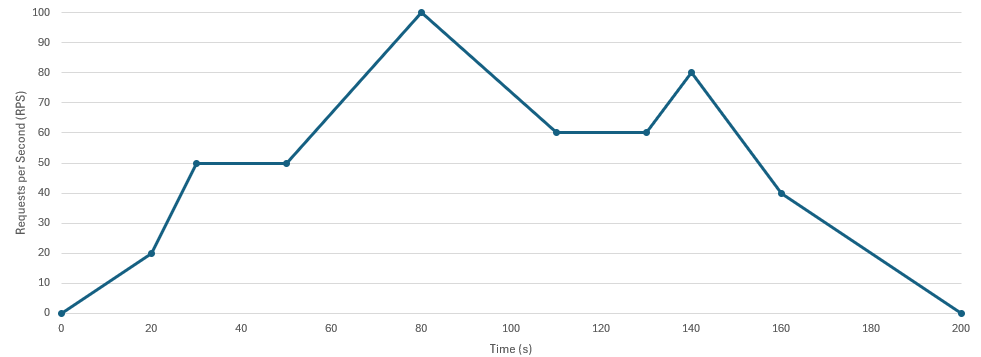
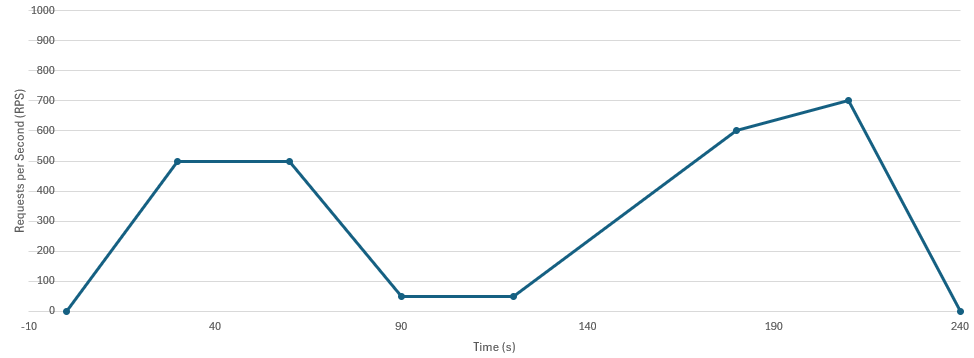
feat(curve_loadtest): finished curve loadtest

diff --git a/loadtest/curve/curve_tester/curver_tester.go b/loadtest/curve/curve_tester/curver_tester.go
@@ -14,13 +14,18 @@ type CurveTester struct {
 	logHeaderPrinted bool
 	startTime        time.Time
 	isRunning        bool
+	rpsChan          chan int
+	currentRPS       int
+	targetRPS        int
 }
 
 func NewCurveTester(config LoadtestConfig, client net.Client) *CurveTester {
 	return &CurveTester{
-		config:    config,
-		client:    client,
-		isRunning: false,
+		config:     config,
+		client:     client,
+		isRunning:  false,
+		currentRPS: 0,
+		targetRPS:  0,
 	}
 }
 
@@ -30,27 +35,28 @@ func (tester *CurveTester) Run() {
 		return
 	}
 
-	fmt.Println("Starting curve load test")
-
-	tester.startTime = time.Now()
-
 	requestHandler := NewRequestHandler(tester.config.Target, tester.config.Paths, tester.client)
 
 	requestWg := sync.WaitGroup{}
 	stopRequestHandlerChan := make(chan struct{})
-	rpsChan := make(chan int)
+	tester.rpsChan = make(chan int, tester.maxTargetRPSChange())
 
-	go requestHandler.Run(stopRequestHandlerChan, rpsChan, &requestWg)
+	fmt.Println("Starting curve load test")
 
-	currentRPS := 0
+	tester.startTime = time.Now()
+
+	go requestHandler.Run(stopRequestHandlerChan, tester.rpsChan, &requestWg)
+	go tester.doLogs(stopRequestHandlerChan)
+
+	tester.currentRPS = 0
 	for _, nextCurvePoint := range tester.config.CurvePoints {
-		tester.interpolate2RPS(currentRPS, nextCurvePoint.TargetRPS, nextCurvePoint.Seconds2TargetRPS, rpsChan)
-		currentRPS = nextCurvePoint.TargetRPS
-		fmt.Println("Step to next curve point")
+		tester.targetRPS = nextCurvePoint.TargetRPS
+		tester.interpolate2RPS(nextCurvePoint.Seconds2TargetRPS)
+		tester.currentRPS = tester.targetRPS
 	}
 
-	fmt.Println("Stop sending requests")
 	close(stopRequestHandlerChan)
+	fmt.Println("Stopped sending requests")
 
 	fmt.Println("Wait for outstanding requests")
 	requestWg.Wait()
@@ -58,45 +64,88 @@ func (tester *CurveTester) Run() {
 	fmt.Println("Load test done")
 }
 
-func (tester *CurveTester) interpolate2RPS(startRps, targetRPS int, seconds2Interpolate int, rpsChan chan int) {
-	rpsChange := targetRPS - startRps
-	steps := rpsChange
-	if steps < 0 {
-		steps = steps * -1
-	}
+func (tester *CurveTester) interpolate2RPS(seconds2Interpolate int) {
+
+	steps := tester.calcInterpolationSteps()
 
 	if steps == 0 {
 		time.Sleep(time.Duration(seconds2Interpolate) * time.Second)
 		return
 	}
 
-	rpsIncrement := 0
-	if rpsChange < 0 {
-		rpsIncrement = -1
-	} else if rpsChange > 0 {
-		rpsIncrement = 1
-	}
-
-	interpolationInterval := time.Duration(float64(seconds2Interpolate)/float64(steps)) * time.Second
-
-	currentRPS := startRps
+	interpolationInterval := tester.calcInterpolationIntervalDuration(seconds2Interpolate, steps)
+	rpsIncrement := tester.calcRpsIncrement()
 
 	for i := 0; i < steps; i++ {
-		currentRPS += rpsIncrement
+		tester.currentRPS += rpsIncrement
 
-		rpsChan <- int(currentRPS)
-
-		tester.logRPS(targetRPS, int(currentRPS))
+		select {
+		case tester.rpsChan <- tester.currentRPS:
+		default:
+		}
 
 		time.Sleep(interpolationInterval)
 	}
 }
 
-func (tester *CurveTester) logRPS(targetRPS int, currentRPS int) {
-	if !tester.logHeaderPrinted {
-		fmt.Println("ElapsedTime\tTargetRPS\tCurrentRPS")
-		tester.logHeaderPrinted = true
+func (tester *CurveTester) doLogs(stopLogs chan struct{}) {
+	fmt.Println("ElapsedTime\tTargetRPS\tCurrentRPS")
+
+	for {
+		select {
+		case <-stopLogs:
+			return
+		default:
+			elapsedTime := time.Since(tester.startTime)
+			fmt.Printf("%.0f\t\t%d\t\t%d\n", elapsedTime.Seconds(), tester.targetRPS, tester.currentRPS)
+			time.Sleep(time.Second)
+		}
 	}
-	elapsedTime := time.Since(tester.startTime)
-	fmt.Printf("%.1f\t\t%d\t\t%d\n", elapsedTime.Seconds(), targetRPS, currentRPS)
+}
+
+func (tester *CurveTester) calcRpsIncrement() int {
+	change := tester.targetRPS - tester.currentRPS
+
+	if change < 0 {
+		return -1
+	} else if change > 0 {
+		return 1
+	}
+
+	return 0
+}
+
+func (tester *CurveTester) calcInterpolationSteps() int {
+	change := tester.targetRPS - tester.currentRPS
+
+	if change < 0 {
+		change = change * -1
+	}
+
+	return change
+}
+
+func (tester *CurveTester) calcInterpolationIntervalDuration(seconds2Interpolate int, steps int) time.Duration {
+	durationPerStepSeconds := float64(seconds2Interpolate) / float64(steps)
+	durationPerStepMilliseconds := int(durationPerStepSeconds * 1000)
+	return time.Duration(durationPerStepMilliseconds) * time.Millisecond
+}
+
+func (tester *CurveTester) maxTargetRPSChange() int {
+	maxTargetRPSChange := 0
+	for i := 0; i < len(tester.config.CurvePoints)-1; i++ {
+		curvePoint := tester.config.CurvePoints[i]
+		nextCurvePoint := tester.config.CurvePoints[i+1]
+
+		rpsChange := nextCurvePoint.TargetRPS - curvePoint.TargetRPS
+		if rpsChange < 0 {
+			rpsChange = rpsChange * -1
+		}
+
+		if rpsChange > maxTargetRPSChange {
+			maxTargetRPSChange = rpsChange
+		}
+	}
+
+	return maxTargetRPSChange
 }

diff --git a/loadtest/curve/main.go b/loadtest/curve/main.go
@@ -1,32 +1,37 @@
 package main
 
 import (
+	"flag"
+	"log"
+
 	"github.com/hingew/hsfl-master-ai-cloud-engineering/loadtest/curve/curve_tester"
 	"github.com/hingew/hsfl-master-ai-cloud-engineering/loadtest/net"
 )
 
 func main() {
-	//configPath := flag.String("config", "config.json", "Path to the configuration file")
-	//flag.Parse()
+	configPath := flag.String("config", "config.json", "Path to the configuration file")
+	flag.Parse()
 
-	//config, err := curve_tester.ReadConfig(*configPath)
-	//if err != nil {
-	//	log.Fatalf("Failed to read config: %v", err)
-	//}
-
-	config := &curve_tester.LoadtestConfig{
-		CurvePoints: []curve_tester.NextCurvePoint{
-			{Seconds2TargetRPS: 5, TargetRPS: 3},
-			{Seconds2TargetRPS: 5, TargetRPS: 1},
-			{Seconds2TargetRPS: 5, TargetRPS: 3},
-			{Seconds2TargetRPS: 5, TargetRPS: 3},
-			{Seconds2TargetRPS: 5, TargetRPS: 0},
-		},
-		Target: "192.168.178.98:31153",
-		Paths: []string{
-			"/",
-		},
+	config, err := curve_tester.ReadConfig(*configPath)
+	if err != nil {
+		log.Fatalf("Failed to read config: %v", err)
 	}
+
+	/*
+		config := &curve_tester.LoadtestConfig{
+			CurvePoints: []curve_tester.NextCurvePoint{
+				{Seconds2TargetRPS: 20, TargetRPS: 30},
+				{Seconds2TargetRPS: 20, TargetRPS: 15},
+				{Seconds2TargetRPS: 20, TargetRPS: 30},
+				{Seconds2TargetRPS: 20, TargetRPS: 20},
+				{Seconds2TargetRPS: 20, TargetRPS: 0},
+			},
+			Target: "192.168.178.98:31153",
+			Paths: []string{
+				"/",
+			},
+		}
+	*/
 
 	client := net.NewTcpClient()
 

diff --git a/loadtest/curve/README.md b/loadtest/curve/README.md
@@ -1,31 +1,33 @@
 # Config-File:
 
-To configure the loadtest adapt the config.json file to your needs.
+With this loadtest you can should a desired Number of Request per Second (RPS) against the target. You can the define the Number of RPS as a curve. To do so you have define points with `targetRPS`. The test will linear interpolate the RPS to this `targetRPS` in a duration of `seconds2Target` after it has reached the previous `targetRPS`. The Test starts with 0 RPS and will stop with last ``targetRPS`.
 
-The following example for the config file produces the following graph:
-![diagram](example-config-curve.png)
+The following example shows how you have setup the config.json file to achieve the following curve:
+![RPS_curve](example-config-curve.png)
 
 ```
 {
-    "rampSpecifications": [
-        {"duration": 20, "targetRPS": 20},
-        {"duration": 10, "targetRPS": 50},
-        {"duration": 20, "targetRPS": 50},
-        {"duration": 30, "targetRPS": 100},
-        {"duration": 30, "targetRPS": 60},
-        {"duration": 20, "targetRPS": 60},
-        {"duration": 10, "targetRPS": 80},
-        {"duration": 20, "targetRPS": 40},
-        {"duration": 40, "targetRPS": 0}
+    "curve": [
+        {"seconds2TargetRPS": 30, "targetRPS": 500},
+        {"seconds2TargetRPS": 30, "targetRPS": 500},
+        {"seconds2TargetRPS": 30, "targetRPS": 50},
+        {"seconds2TargetRPS": 30, "targetRPS": 50},
+        {"seconds2TargetRPS": 30, "targetRPS": 600},
+        {"seconds2TargetRPS": 30, "targetRPS": 700},
+        {"seconds2TargetRPS": 30, "targetRPS": 0}
     ],
-    "target": "192.168.2.134:32674",
+    "target": "192.168.178.98:31153",
     "paths": [
-        "/"
+        "/admin",
+        "/api"
     ]
 }
 ```
 
 Replace the target with the target address of your api-gateway service.
+
+Depending on the available resources of your kubernetes cluster you won't be able to see the exact same curve in your monitoring tool as you have defined it in the config file. But you will be able to notice an increase and decrease in the performance with an increasing and decreasing number of RPS. Like you can see it in the following picture:  
+![Performance_curve](example-cpu-load.png)
 
 # Run loadtest:
 
